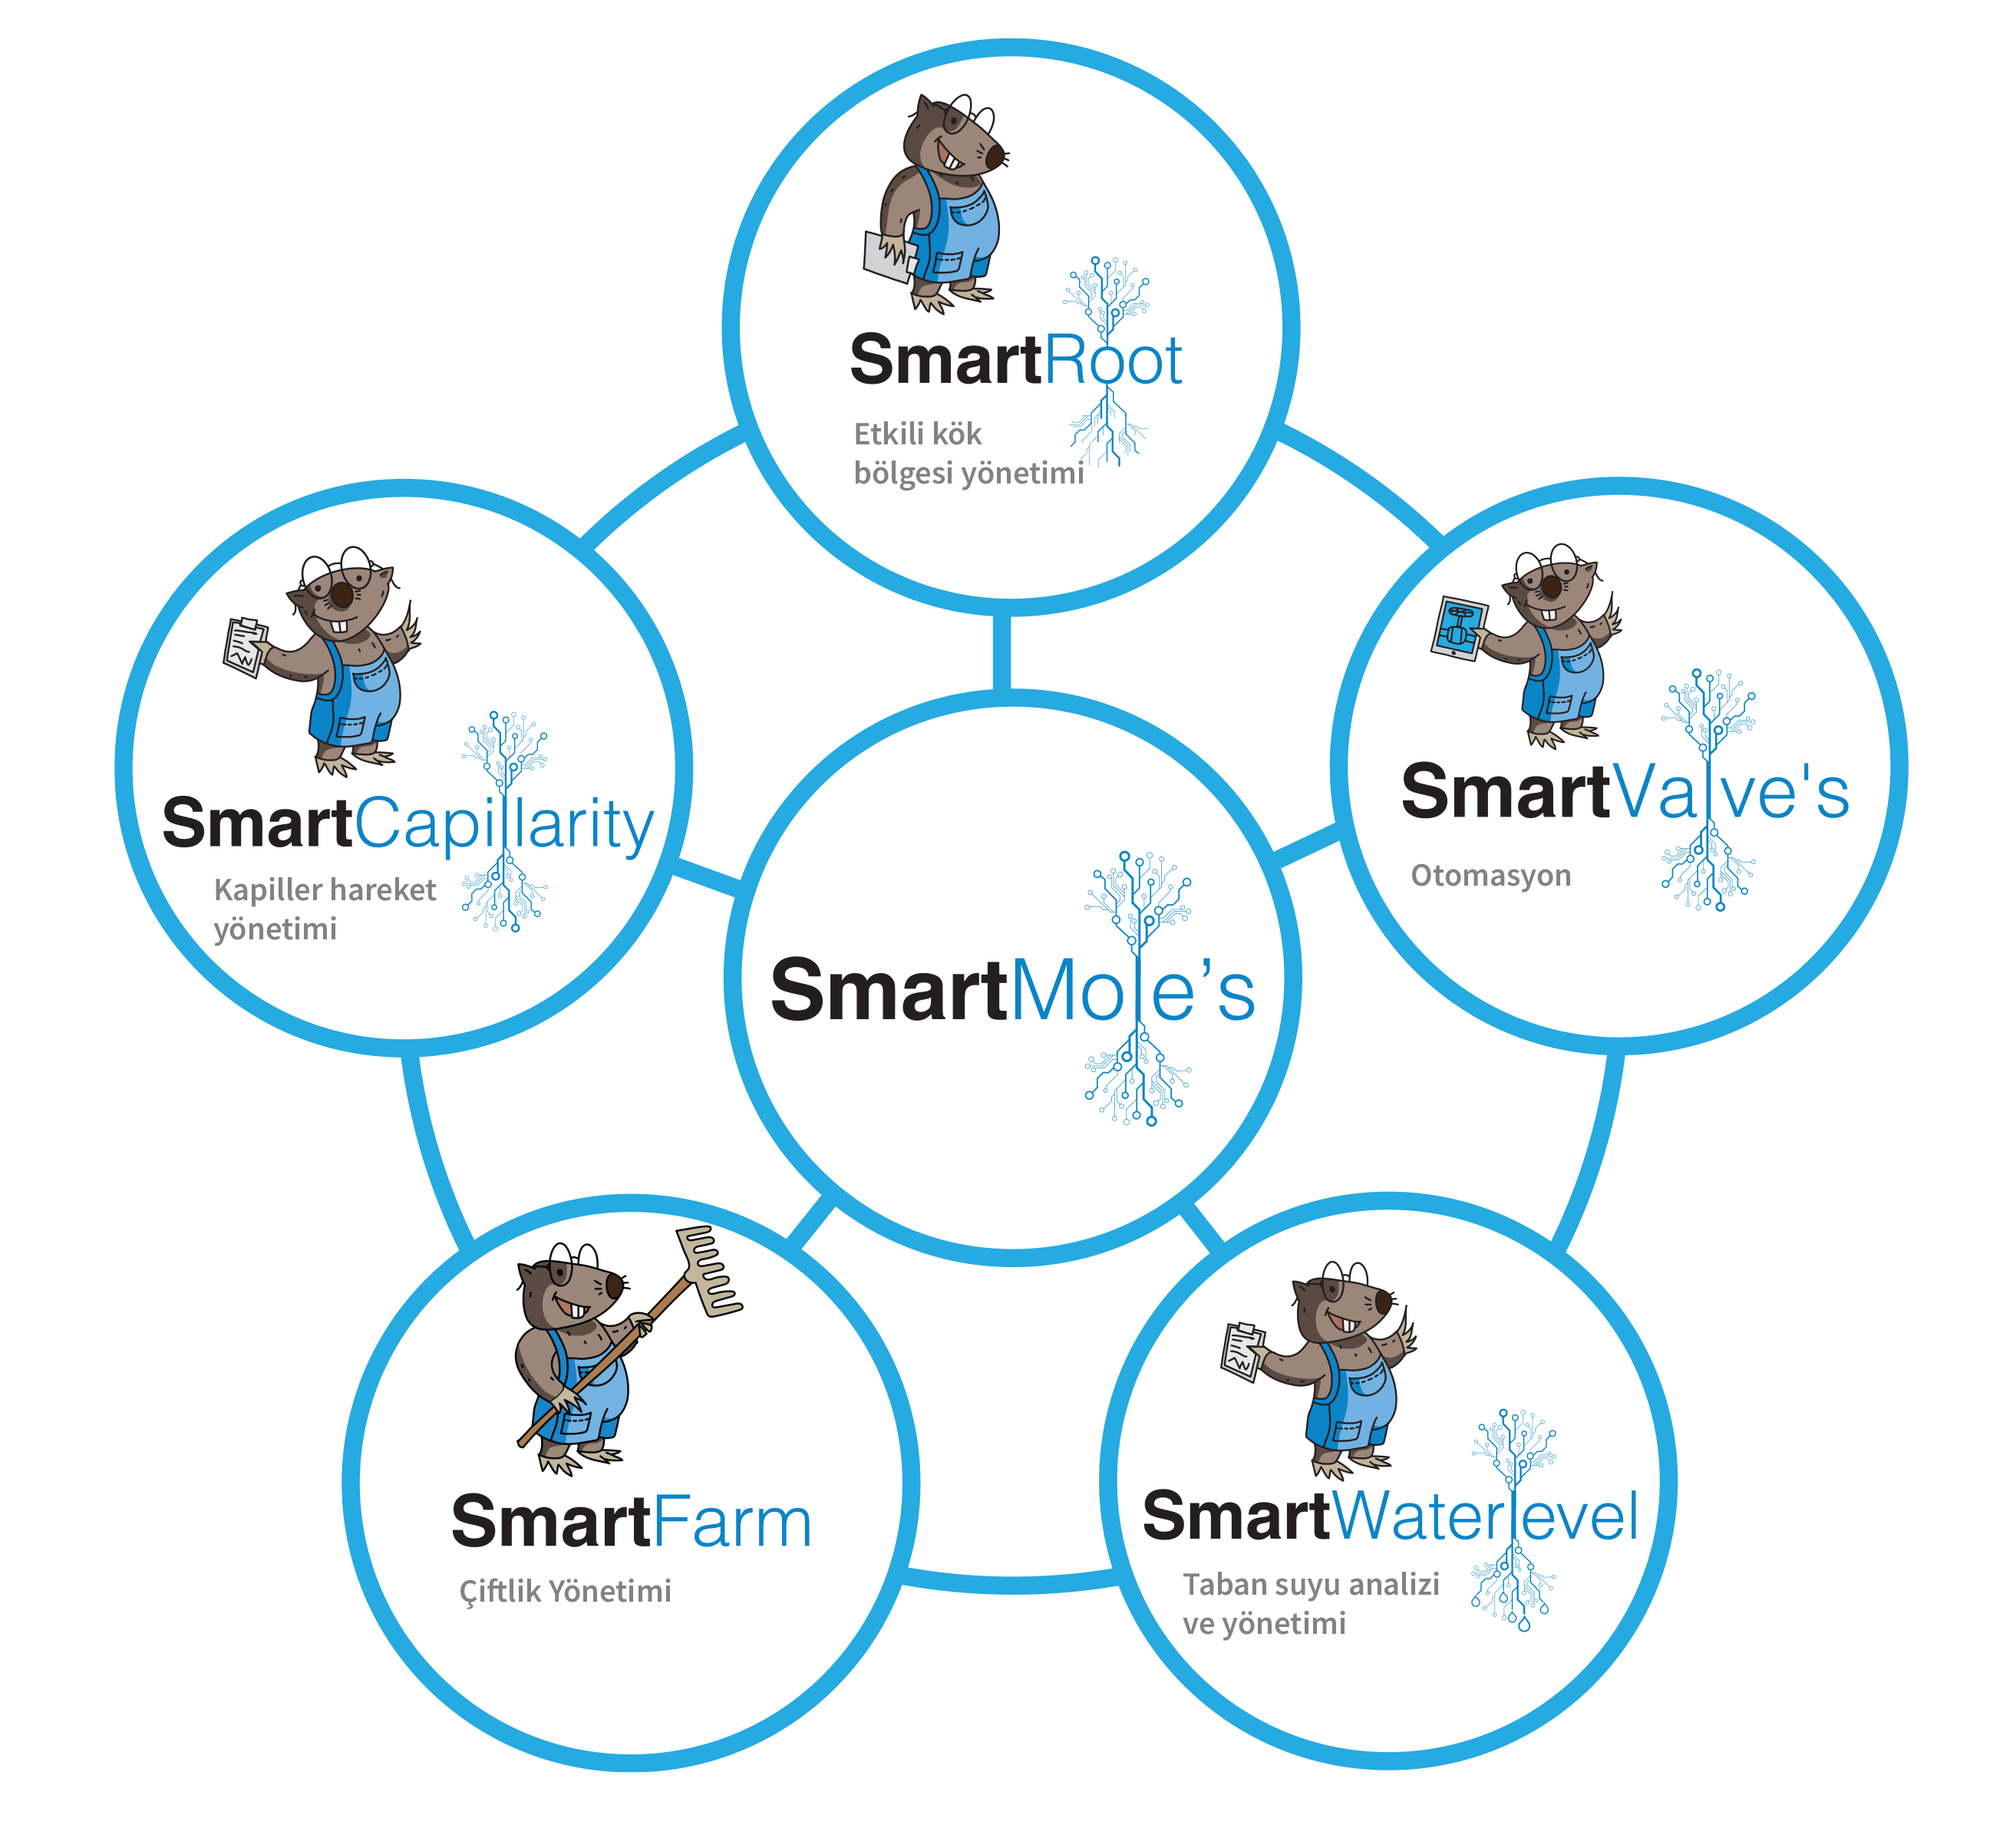
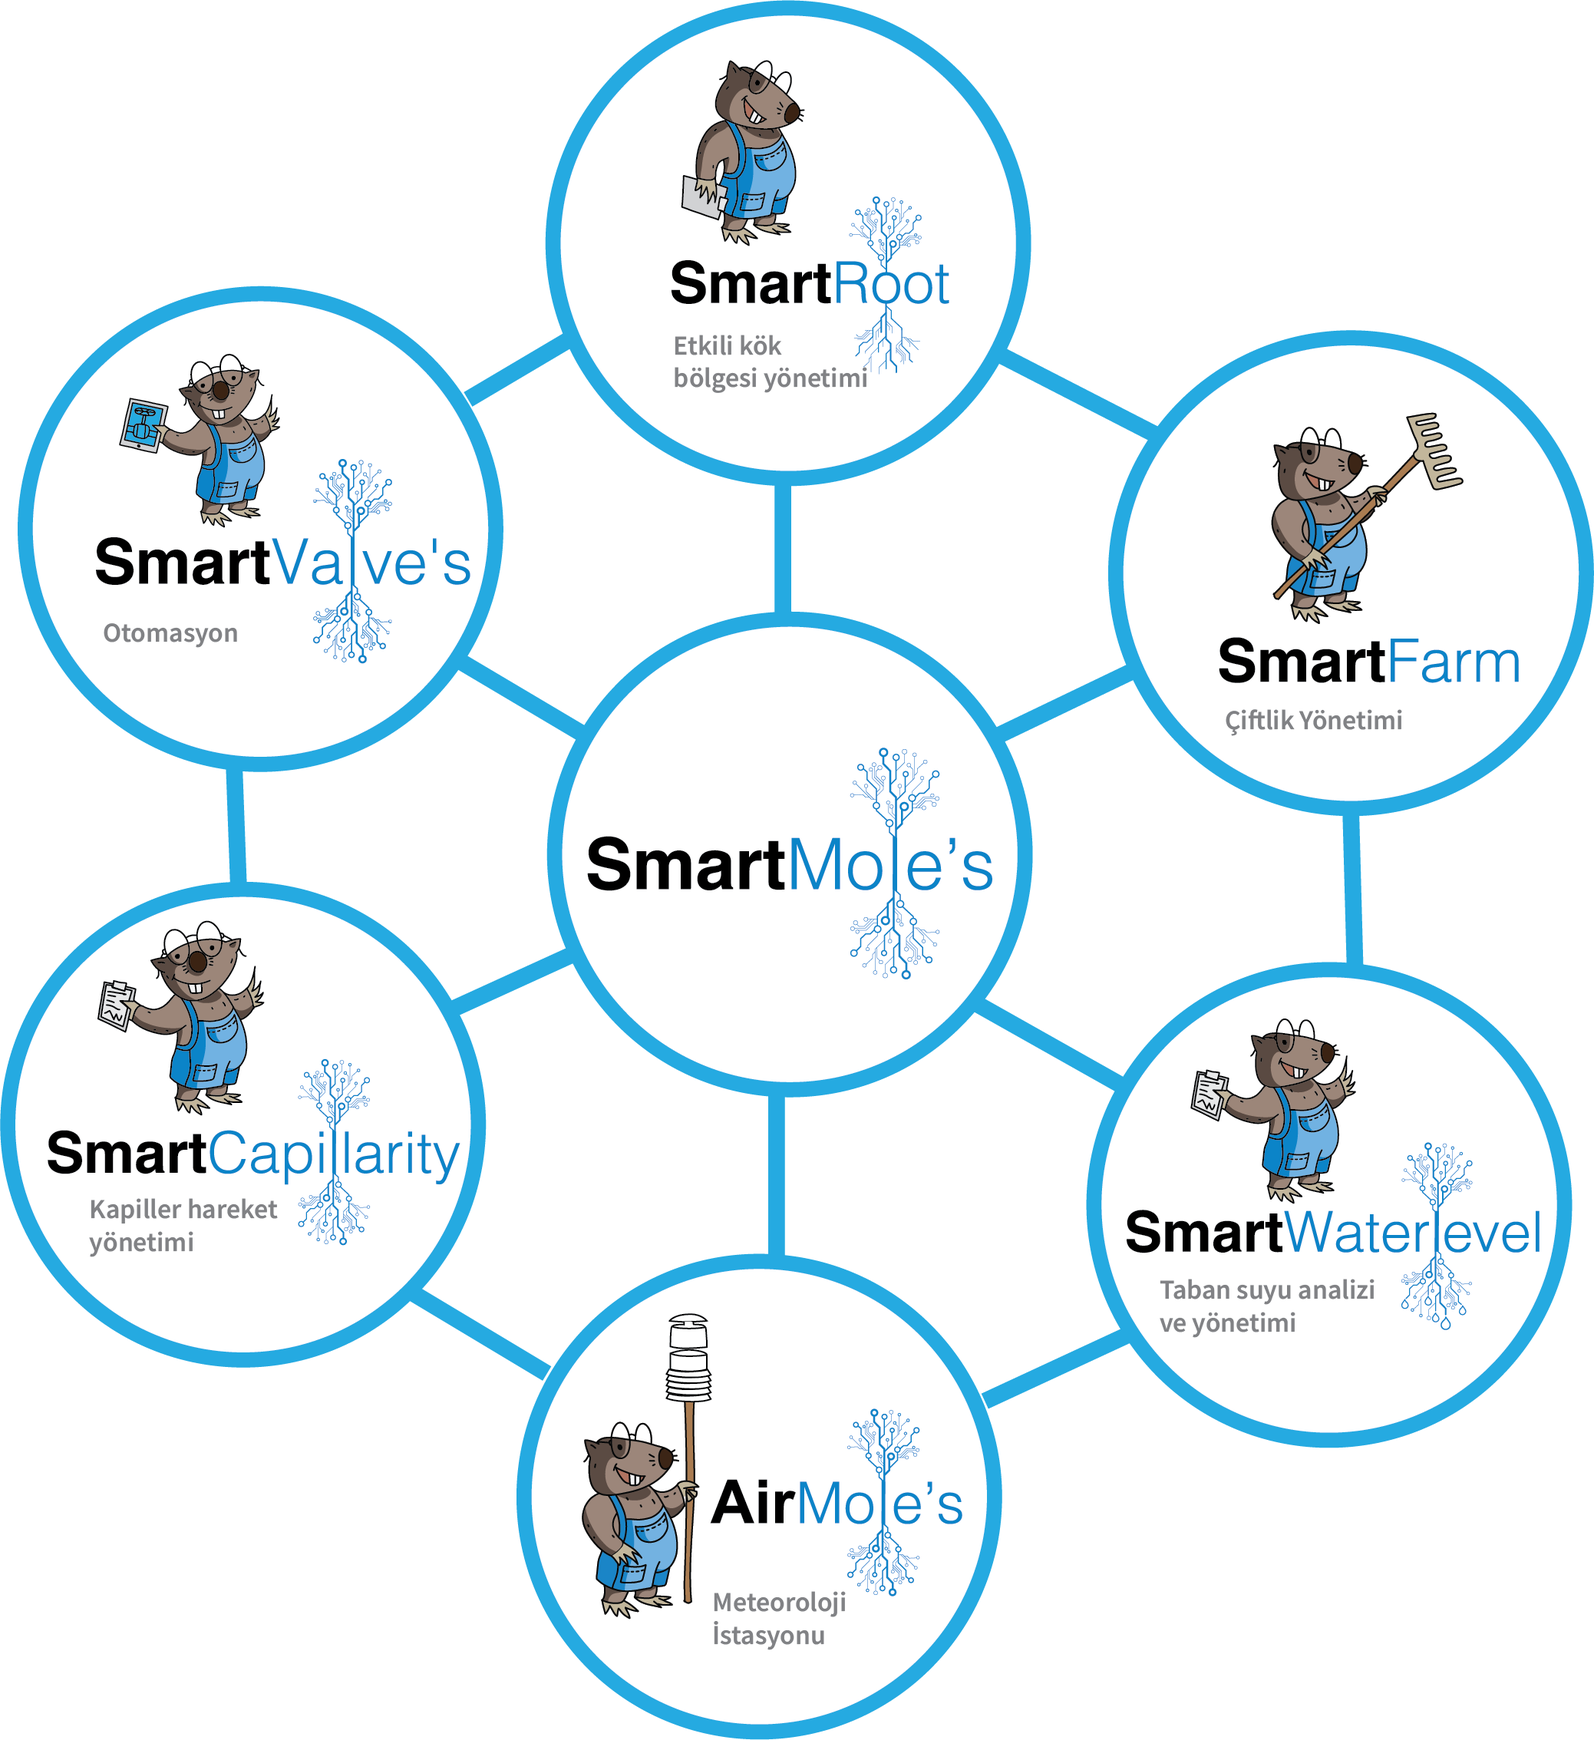
lang

diff --git a/src/sections/home/HomeDarkMode.js b/src/sections/home/HomeDarkMode.js
@@ -1,6 +1,6 @@
 import { m } from 'framer-motion';
 // @mui
-import { Grid, Box, Tooltip, Container, Button ,Typography} from '@mui/material';
+import { Grid, Box, Tooltip, Container, Button, Typography } from '@mui/material';
 // components
 import Image from '../../components/Image';
 import { varFade } from '../../components/animate';
@@ -15,7 +15,7 @@ export default function HomeDarkMode() {
   const { translate } = useLocales();
   return (
     <>
-      <Grid container justifyContent="center" alignItems='center'>
+      <Grid container justifyContent="center" alignItems="center">
         <Grid item sm={12} md={6}>
           <Container sx={{ position: 'relative' }}>
             <Image
@@ -36,18 +36,15 @@ export default function HomeDarkMode() {
               }}
             />
           </Container>
-          {/* <SloganStyle sx={{ padding: '28% 5%', color: '#000' }}>
-            <Typist>tarımsal faaliyetlerinize<br></br> değer katıyoruz</Typist>
-          </SloganStyle> */}
           {isDesktop && (
-           <m.div variants={varFade().inRight}  >
-              <Typography variant="h2" sx={{ px:'10%'}}>
-              {translate('HomeDark.title')}
-              <br></br>
-              {translate('HomeDark.title2')}
+            <m.div variants={varFade().inRight}>
+              <Typography variant="h2" sx={{ px: '10%' }}>
+                {translate('HomeDark.title')}
+                <br></br>
+                {translate('HomeDark.title2')}
               </Typography>
             </m.div>
-            )}
+          )}
         </Grid>
         <Grid item sm={12} md={6}>
           <Box
@@ -64,8 +61,8 @@ export default function HomeDarkMode() {
                   position: 'absolute',
                   height: '25%',
                   width: '25%',
-                  top: '5%',
-                  right: '35%',
+                  top: '1%',
+                  right: '38%',
                   zIndex: '2',
                   opacity: '0',
                 }}
@@ -81,8 +78,8 @@ export default function HomeDarkMode() {
                   height: '25%',
                   width: '25%',
                   position: 'absolute',
-                  top: '28%',
-                  right: '6%',
+                  top: '18%',
+                  right: '71%',
                   zIndex: '2',
                   opacity: '0',
                 }}
@@ -98,8 +95,8 @@ export default function HomeDarkMode() {
                   height: '25%',
                   width: '25%',
                   position: 'absolute',
-                  top: '30%',
-                  left: '8%',
+                  top: '52%',
+                  left: '3%',
                   zIndex: '2',
                   opacity: '0',
                 }}
@@ -115,8 +112,8 @@ export default function HomeDarkMode() {
                   height: '25%',
                   width: '25%',
                   position: 'absolute',
-                  bottom: '6%',
-                  left: '19%',
+                  bottom: '54%',
+                  left: '73%',
                   zIndex: '2',
                   opacity: '0',
                 }}
@@ -132,8 +129,8 @@ export default function HomeDarkMode() {
                   height: '25%',
                   width: '25%',
                   position: 'absolute',
-                  bottom: '6%',
-                  right: '18%',
+                  bottom: '18%',
+                  right: '4%',
                   zIndex: '2',
                   opacity: '0',
                 }}
@@ -149,8 +146,8 @@ export default function HomeDarkMode() {
                   height: '25%',
                   width: '25%',
                   position: 'absolute',
-                  bottom: '34%',
-                  right: '37%',
+                  bottom: '38%',
+                  right: '38%',
                   zIndex: '2',
                   opacity: '0',
                 }}
@@ -158,6 +155,23 @@ export default function HomeDarkMode() {
                 href="/hakkimizda"
               >
                 SmartMoles
+              </Button>
+            </Tooltip>
+            <Tooltip title="AirMoles" arrow>
+              <Button
+                sx={{
+                  height: '25%',
+                  width: '25%',
+                  position: 'absolute',
+                  bottom: '1%',
+                  right: '39%',
+                  zIndex: '2',
+                  opacity: '0',
+                }}
+                size="large"
+                href="/air-moles"
+              >
+                AirMoles
               </Button>
             </Tooltip>
             <Image src="/static/images/markalar.png" alt="about-vision" effect="black-and-white" />

diff --git a/src/sections/home/product/airmoles/AirMolesImage.js b/src/sections/home/product/airmoles/AirMolesImage.js
@@ -3,28 +3,26 @@ import { Box, Container, Typography, Grid } from '@mui/material';
 // components
 import Image from '../../../../components/Image';
 import { MotionInView, varFade } from '../../../../components/animate';
+//hooks
+import useLocales from '../../../../hooks/useLocales';
 
 // ----------------------------------------------------------------------
 
 export default function AirMolesImage() {
+  const { translate } = useLocales();
   return (
     <Container sx={{ mt: 10 }}>
       <Grid container justifyContent="center">
         <Grid item xs={12} md={6} sx={{ paddingRight: 10, py: 10 }}>
           <MotionInView variants={varFade().inUp}>
             <Typography variant="h4" sx={{ textAlign: 'center!important' }}>
-              Bilgiye dayalı karar vermek için kompakt, inovatif bir teknoloji
+              {translate('AirMolesImage.desc')}
             </Typography>
           </MotionInView>
           <MotionInView variants={varFade().inUp}>
             <Typography variant="body1" sx={{ textAlign: 'left', lineHeight: '1.8' }}>
-              <br></br> AIRMAR'ın WeatherStation WXRS'si yağmur yoğunluğu, birikimi ve gerçek zamanlı süresi hakkında
-              gerçek zamanlı bilgi sağlar. Akustik bir sensör, WeatherStation cihazının üstünde bulunan patentli
-              "şemsiye" sensöründe tek tek yağmur damlalarının enerjisini ölçer. Bu yağmur algılayıcı sensör,
-              boşaltılması, temizlenmesi veya pislik nedeniyle tıkanması gereken hareketli parça veya bileşen
-              içermediğinden neredeyse bakım gerektirmez. Minimum bakım ve tam bir ultrasonik rüzgâr, sıcaklık,
-              barometrik basınç ve bağıl nem paketinin entegrasyonu ile WeatherStation WXRS, geleneksel ölçüm
-              cihazlarına kıyaslanırsa önemli ölçüde daha düşük toplam sahip olma maliyeti (TCO) sunar
+              <br></br> 
+              {translate('AirMolesImage.desc2')}
             </Typography>
           </MotionInView>
         </Grid>
@@ -48,24 +46,24 @@ export default function AirMolesImage() {
         <Grid item xs={12} sm={8}>
           <MotionInView variants={varFade().inUp}>
             <Typography variant="h5" sx={{ textAlign: 'center!important' }}>
-              Tarlanızın meteorolojik verilerine dünyanın her yerinden ulaşın
+            {translate('AirMolesImage.title')}
               <br/>
             </Typography>
             <Typography variant="body1" sx={{ textAlign: 'center' }}>
               <br/>
-              • Bakım gerektirmez
+              • {translate('AirMolesImage.li1')}
               <br/><br/>
-              • Görünen rüzgar hızı ve yönünün ultrosonik ölçümü
+              • {translate('AirMolesImage.li2')}
               <br/><br/>
-              • Yağmur birikiminin, yoğunluğunun ve süresinin akustik ölçümü
+              • {translate('AirMolesImage.li3')}
               <br/><br/>
-              • Manyetik ve gerçek kuzey arasındaki farkı düzelten GPS
+              • {translate('AirMolesImage.li4')}
               <br/><br/>
-              • Manyetik kuzeye referanslı rüzgar hızı verileri için dahili pusula
+              • {translate('AirMolesImage.li5')}
               <br/><br/>
-              • Düşme nedeniyle tıkanma veri bütünlüğü kaybı olmaz
+              • {translate('AirMolesImage.li6')}
               <br/><br/>
-              • Hareketli parçası olmayan sağlam, kompakt, UV stabilize gövdeye sahip
+              • {translate('AirMolesImage.li7')}
             </Typography>
           </MotionInView>
         </Grid>

diff --git a/src/sections/home/product/airmoles/AirMolesSlider.js b/src/sections/home/product/airmoles/AirMolesSlider.js
@@ -5,6 +5,8 @@ import { Box, Container, Button } from '@mui/material';
 // components
 import Iconify from '../../../../components/Iconify';
 import { MotionContainer, TextAnimate, varFade, varBounce } from '../../../../components/animate';
+//hooks
+import useLocales from '../../../../hooks/useLocales';
 
 // ----------------------------------------------------------------------
 
@@ -31,6 +33,7 @@ const ContentStyle = styled('div')(({ theme }) => ({
 // ----------------------------------------------------------------------
 
 export default function AirMolesSlider() {
+  const { translate } = useLocales();
   return (
     <RootStyle>
       <Container component={MotionContainer} sx={{ position: 'relative', height: '100%' }}>
@@ -38,11 +41,11 @@ export default function AirMolesSlider() {
           <TextAnimate text="AirMoles" sx={{ color: 'primary.main' }} variants={varFade().inRight} />
           <br />
           <Box sx={{ display: 'inline-flex', color: 'common.white' }}>
-            <TextAnimate text="Hava &nbsp; şartlarının &nbsp; bitkilerinizi" sx={{ mr: 2, typography: 'h4' }} />
+            <TextAnimate text={translate('AirMolesSlider.title')} sx={{ mr: 2, typography: 'h4' }} />
           </Box>
           <br />
           <Box sx={{ display: 'inline-flex', color: 'common.white' }}>
-            <TextAnimate text="nasıl &nbsp; etkilediğini &nbsp; biliyor &nbsp; musunuz?" sx={{ mb: 2, mr: 2, typography: 'h4' }} />
+            <TextAnimate text={translate('AirMolesSlider.title2')} sx={{ mb: 2, mr: 2, typography: 'h4' }} />
           </Box>
           <m.div variants={varBounce().inUp}>
             <Button
@@ -52,7 +55,7 @@ export default function AirMolesSlider() {
               variant="contained"
               startIcon={<Iconify icon={'eva:flash-fill'} width={20} height={20} />}
             >
-              Fiyat Teklifi Al
+              {translate('AirMolesSlider.button')}
             </Button>
           </m.div>
         </ContentStyle>

diff --git a/src/sections/home/product/airmoles/AirMolesWhat.js b/src/sections/home/product/airmoles/AirMolesWhat.js
@@ -5,6 +5,8 @@ import { Grid, Container, Typography } from '@mui/material';
 import useResponsive from '../../../../hooks/useResponsive';
 // components
 import { MotionInView, varFade } from '../../../../components/animate';
+//hooks
+import useLocales from '../../../../hooks/useLocales';
 
 // ----------------------------------------------------------------------
 
@@ -21,7 +23,7 @@ const RootStyle = styled('div')(({ theme }) => ({
 
 export default function AirMolesWhat() {
   const isDesktop = useResponsive('up', 'md');
-
+  const { translate } = useLocales();
   return (
     <RootStyle>
       <Container>
@@ -51,7 +53,7 @@ export default function AirMolesWhat() {
                   color: (theme) => (theme.palette.mode === 'light' ? 'text.secondary' : 'common.white'),
                 }}
               >
-                <b>AirMoles</b> yüksek teknolojisi ile meteorolojik verilere yerel ve bulut tabanlı olarak erişmenizi sağlar
+                {translate('AirMolesWhat.desc')}
               </Typography>
             </MotionInView>
           </Grid>

diff --git a/src/sections/home/product/waterlevel/WaterlevelImage.js b/src/sections/home/product/waterlevel/WaterlevelImage.js
@@ -95,16 +95,6 @@ export default function WaterlevelImage() {
       >
         <Image src="/static/product/waterlevel/smartwaterlevel-5.png" alt="about-vision" effect="black-and-white" />
       </Box>
-
-      <Grid container justifyContent="center">
-        <Grid item xs={12} sm={8}>
-          <MotionInView variants={varFade().inUp}>
-            <Typography variant="body" sx={{ textAlign: 'center' }}>
-              {translate('SmartWaterlevelImage.desc5')}
-            </Typography>
-          </MotionInView>
-        </Grid>
-      </Grid>
     </Container>
   );
 }

diff --git a/src/sections/home/product/waterlevel/WaterlevelSlider.js b/src/sections/home/product/waterlevel/WaterlevelSlider.js
@@ -49,7 +49,7 @@ export default function WaterlevelSlider() {
           </Box>
           <br />
           <Box sx={{ display: 'inline-flex', color: 'common.white' }}>
-            <TextAnimate text={translate('SmartWaterlevelSlider.title2')} sx={{ mb: 2, mr: 2, typography: 'h4' }} />
+            <TextAnimate text={translate('SmartWaterlevelSlider.title3')} sx={{ mb: 2, mr: 2, typography: 'h4' }} />
           </Box>
           <m.div variants={varBounce().inUp}>
             <Button

diff --git a/src/routes/index.js b/src/routes/index.js
@@ -13,7 +13,7 @@ const Loadable = (Component) => (props) => {
   const { pathname } = useLocation();
 
   return (
-    <Suspense fallback={<LoadingScreen isDashboard={pathname.includes('/dashboard')} />}>
+    <Suspense fallback={<LoadingScreen isDashboard={pathname.includes('/')} />}>
       <Component {...props} />
     </Suspense>
   );
